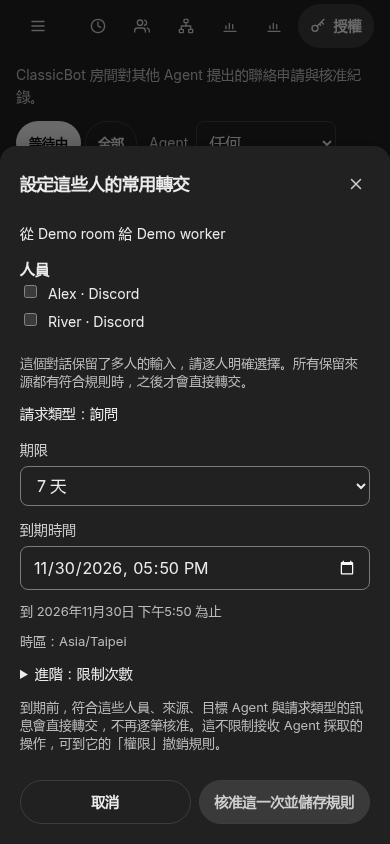
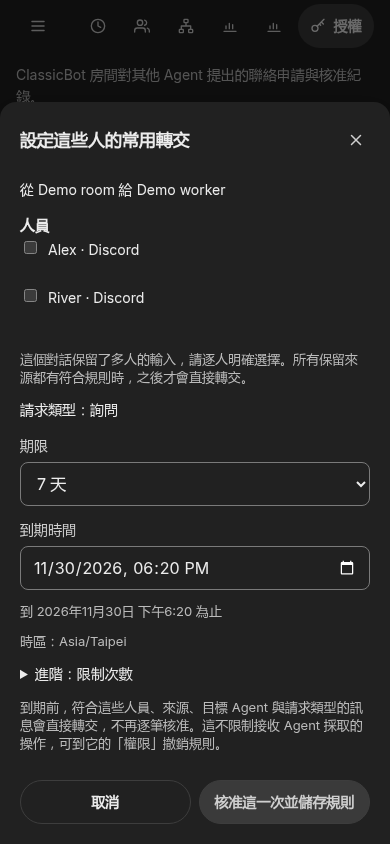
test: cover explicit contact dialog in authorization layout smoke

diff --git a/src/ui/shared/app.css b/src/ui/shared/app.css
@@ -5232,3 +5232,6 @@ html.oo-immersive .p-fleet > .panel-body { z-index: 50; }
 /* Scoped grant metadata wraps as whole phrases; disabled decisions stay readable. */
 .contact-grant-meta { display: flex; flex-wrap: wrap; gap: var(--s-1) var(--s-3); }
 .contact-grant-dialog .btn-primary:disabled { opacity: 1; background: var(--surface-2); color: var(--text-2); border-color: var(--border); }
+@media (max-width: 899px), (pointer: coarse) and (max-height: 500px) and (max-width: 1023px) {
+  .contact-grant-dialog :is(input:not([type=checkbox]), select, .check) { min-height: var(--tap); }
+}

diff --git a/docs/evidence/contact-standing-grants-m3544/README.md b/docs/evidence/contact-standing-grants-m3544/README.md
@@ -27,3 +27,9 @@ No schema migration. Retaining an unchanged expired rule does not reactivate it;
 ## Review correction
 
 The policy writer assigns final IDs to new rows. Ticket references now come from its persisted return value rather than the temporary input rows. The regression fails before the correction, then checks the selected person's saved ID, the reread ticket, unchanged neighboring rows and rollback after failed admission. Three affected store/API files pass 22 tests. Runtime-only correction; the approved UI and captures are unchanged.
+
+## UI-gate integration correction
+
+The authorization-layout smoke still waited for the removed implicit checkbox. It now opens the explicit grant dialog, checks phone input font size and the 44px control/label targets, checks dialog and page overflow, cancels, then runs every prior filter/card/typography check. This exposed real 24/40/42px targets inside the new dialog. A phone-only rule now applies the shared tap token to its fields and checkbox labels; desktop layout and permission behavior are unchanged.
+
+The exact layout smoke passes all 11 cases. Four phone locale/theme cases were recaptured (24 states); the three affected retained dialog originals are replaced here. Static inspection finds readable wrapping and footer actions. Long dialog content scrolls inside the shared sheet; a viewport capture is not proof of all off-screen prose. The new layout and phone capture result files accompany this correction. This phone sizing change requires the head-specific user-look release; the earlier runtime-only correction did not change images.
